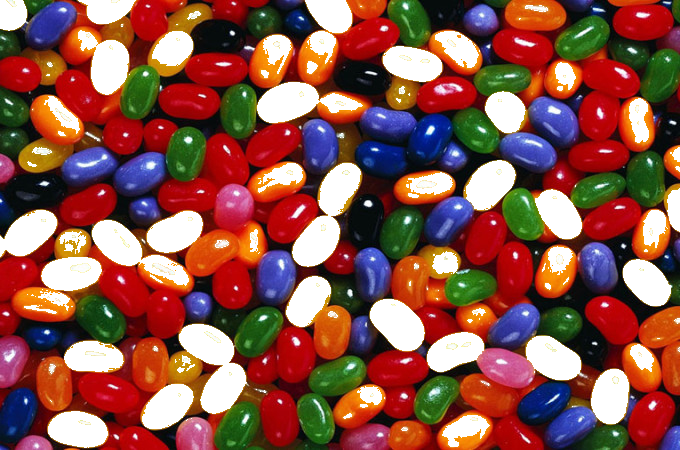
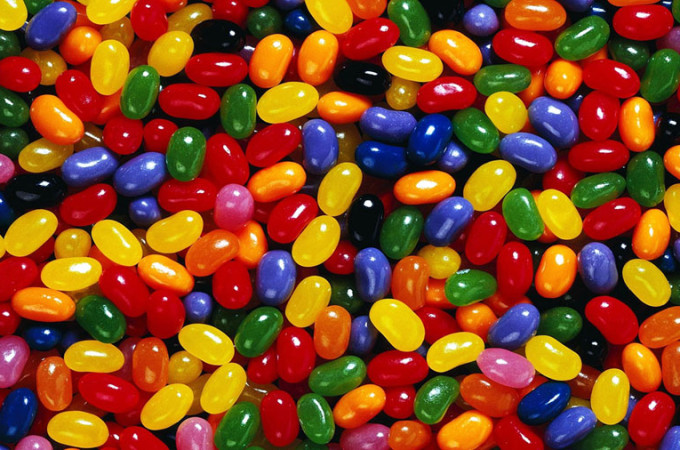
sss

diff --git a/5.1/whitebeans.py b/5.1/whitebeans.py
@@ -3,13 +3,24 @@ from PIL import Image
 def colour(r, g, b):
     if r > 150 and g > 150 and b < 150:
         return "yellow"
-    else:
-        return "other"
+    elif r > 107 and g < 47 and b < 35:
+        return "red"
+    elif r < 95 and g < 148 and b > 95:
+        return "blue"
+    elif r < 66 and g > 21 and b < 42:
+        return "green"
+    elif r < 209 and g < 24 and b < 171:
+        return "purple"
+    
     
 file = Image.open("5.1/jelly_beans.jpg")
 jb_image = file.load()
 
 yellow_pixels = []
+red_p = []
+blue_p = []
+green_p = []
+purple_p = []
 
 width = file.width
 height = file.height
@@ -21,6 +32,45 @@ for x in range(width):
         pixel_b = jb_image[x,y][2]
 
         if colour(pixel_r, pixel_g, pixel_b) == "yellow":
-            file.putpixel((x,y), (255, 255, 255))
+            yellow_pixels.append(jb_image[x,y])
+        if colour(pixel_r, pixel_g, pixel_b) == "red":
+            red_p.append(jb_image[x,y])
+        if colour(pixel_r, pixel_g, pixel_b) == "blue":
+            blue_p.append(jb_image[x,y])
+        if colour(pixel_r, pixel_g, pixel_b) == "green":
+            green_p.append(jb_image[x,y])
+        if colour(pixel_r, pixel_g, pixel_b) == "purple":
+            purple_p.append(jb_image[x,y])
+
+num_yellow = len(yellow_pixels)
+total_pixels = width*height
+yellow_ratio = num_yellow / total_pixels
+yellow_percent = yellow_ratio * 100
+output = "There are {:.2f}% yellow pixels".format(yellow_percent)
+print(output)
+
+num_red = len(red_p)
+red_ratio = num_red / total_pixels
+red_percent = red_ratio * 100
+output_red = "There are {:.2f}% red pixels".format(red_percent)
+print(output_red)
+
+num_blue = len(blue_p)
+blue_ratio = num_blue / total_pixels
+blue_percent = blue_ratio * 100
+output_blue = "There are {:.2f}% blue pixels".format(blue_percent)
+print(output_blue)
+
+num_green = len(green_p)
+green_ratio = num_green / total_pixels
+green_percent = green_ratio * 100
+output_green = "There are {:.2f}% green pixels".format(green_percent)
+print(output_green)
+
+num_purple = len(purple_p)
+purple_ratio = num_purple / total_pixels
+purple_percent = purple_ratio * 100
+output_purple = "There are {:.2f}% purple pixels".format(purple_percent)
+print(output_purple)
 
 file.save("output.png", "png")
